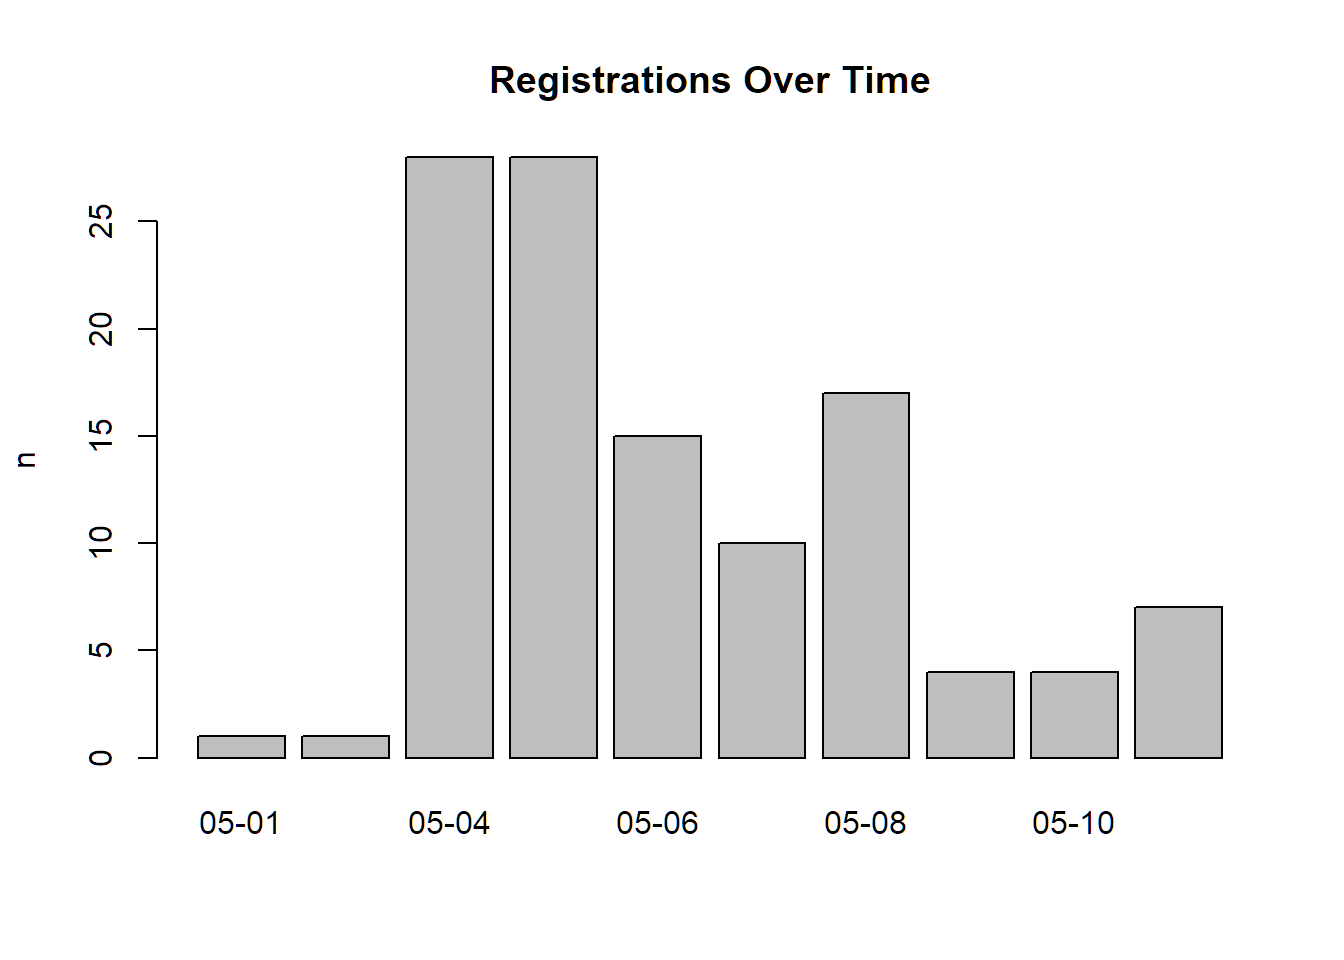
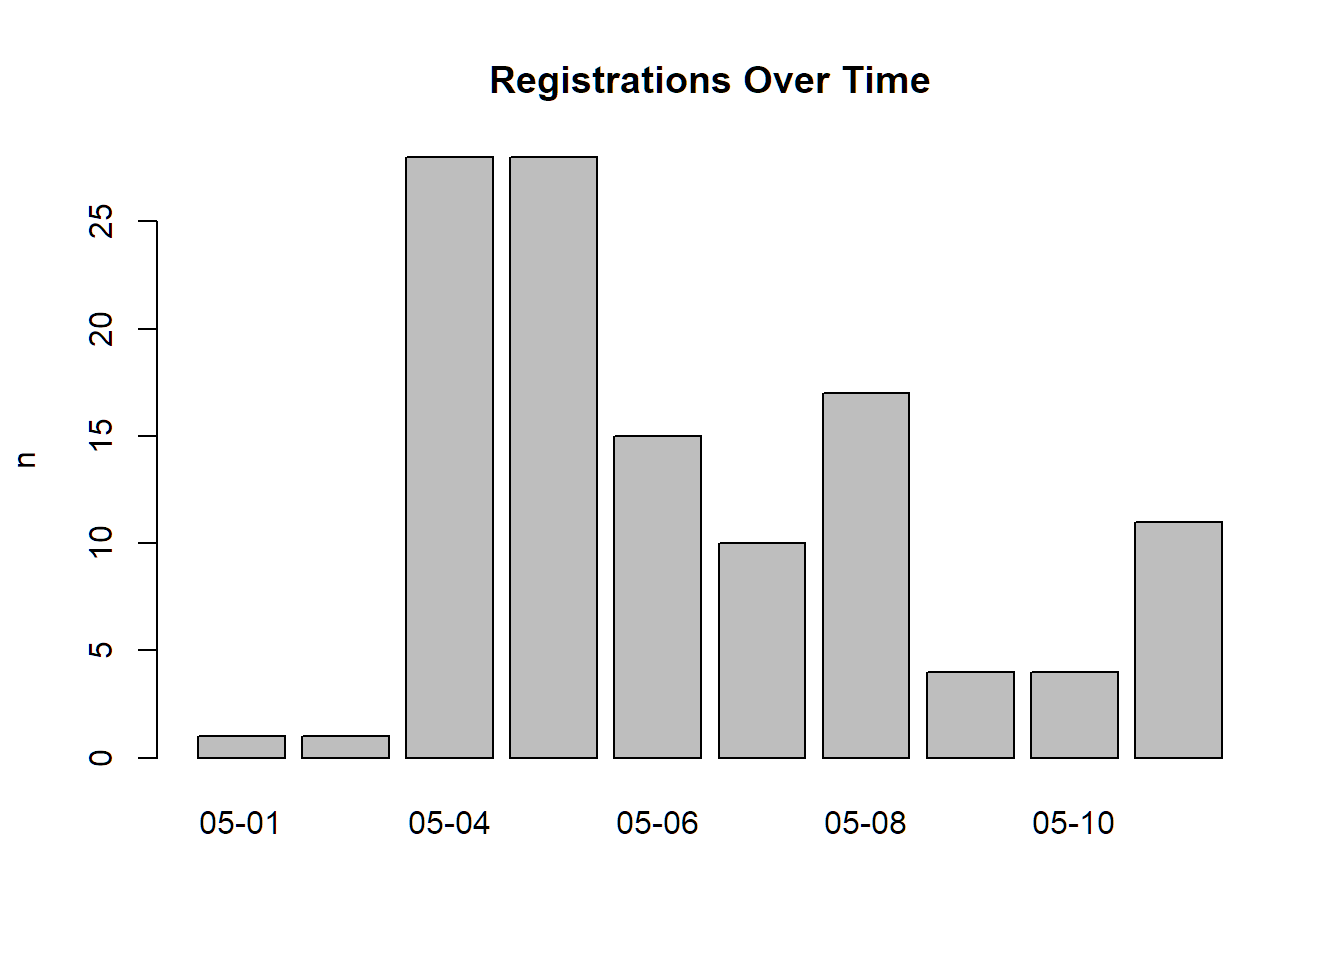
Updated Summary

Changed region(s): [[0.8438, 0.5312, 0.9375, 0.6562]]

diff --git a/docs/reg_summary.html b/docs/reg_summary.html
@@ -267,7 +267,7 @@ div.tocify {
 
 
 <h1 class="title toc-ignore">DroneCamp 2020 Registrations</h1>
-<h4 class="date">as of Monday May 11, 10:39</h4>
+<h4 class="date">as of Monday May 11, 14:26</h4>
 
 </div>
 
@@ -294,14 +294,14 @@ h4 {
 <div id="summary" class="section level1">
 <h1>Summary</h1>
 <p class="total">
-Total : 
-115
+Total: 
+119
 </p>
 </div>
 <div id="map" class="section level1">
 <h1>Map</h1>
-<div id="htmlwidget-acd761f4e8138eceaa18" style="width:672px;height:480px;" class="leaflet html-widget"></div>
-<script type="application/json" data-for="htmlwidget-acd761f4e8138eceaa18">{"x":{"options":{"crs":{"crsClass":"L.CRS.EPSG3857","code":null,"proj4def":null,"projectedBounds":null,"options":{}}},"calls":[{"method":"addTiles","args":["//{s}.tile.openstreetmap.org/{z}/{x}/{y}.png",null,null,{"minZoom":0,"maxZoom":18,"tileSize":256,"subdomains":"abc","errorTileUrl":"","tms":false,"noWrap":false,"zoomOffset":0,"zoomReverse":false,"opacity":1,"zIndex":1,"detectRetina":false,"attribution":"&copy; <a href=\"http://openstreetmap.org\">OpenStreetMap<\/a> contributors, <a href=\"http://creativecommons.org/licenses/by-sa/2.0/\">CC-BY-SA<\/a>"}]},{"method":"addCircleMarkers","args":[[37.4635519,44.60509,44.6111643,40.039784,38.5449065,32.7764749,40.160138,39.072831,38.5449065,36.9741171,32.704499,40.8020712,35.5005139,32.700018,38.5449065,37.7749295,37.3021632,34.048411,34.063209,34.117047,36.825582,36.6002378,34.4208305,36.681161,37.9829496,36.447533,36.678155,36.678155,36.678155,36.9707,37.523901,38.440111,38.457611,40.867469,37.5629917,40.659753,39.5807452,52.9817372,49.2488091,43.6150186,47.6248791,51.0447331,41.081726,38.549256,38.556576,39.720955,39.720955,40.5852602,39.720955,39.720955,39.720955,35.5496939,40.5852602,34.0966764,33.794028,49.2827291,43.828266,36.9741171,47.899217,41.971044,40.4233142,40.5852602,36.148444,36.6844029,43.0085587,32.557684,37.8715226,39.830936,34.110009,33.571185,49.2488091,33.640302,32.715738,39.7392358,38.3293416,38.3293416,38.3293416,40.0149856,40.4233142,34.268736,34.432896,34.0522342,32.715738,36.358928,38.939926,38.939926,36.722616,36.678155,36.812905,38.480494,36.3302284,40.867469,38.672127,39.9242266,38.7296252,39.720955,32.6926512,32.8328112,49.2710518,39.202725,45.497856,34.1175895,37.4529598,45.5051064,39.767536,49.1344187,39.049377,34.1175895,39.049377,47.899217,40.399281,32.800259,32.853471,39.114138,32.8111612],[-122.4285862,-69.33022,-69.3345032,-105.27938,-121.7405167,-79.9310512,-105.01772,-108.55,-121.7405167,-122.0307963,-114.64644,-124.1636729,-119.2717761,-114.52671,-121.7405167,-122.4194155,-120.4829677,-118.34015,-118.43643,-117.77097,-119.76358,-121.8946761,-119.6981901,-121.61538,-120.3821724,-121.68611,-121.79724,-121.79724,-121.79724,-121.99086,-120.8516,-122.74563,-122.69317,-124.07519,-122.3255254,-124.22153,-104.8771726,-122.4949058,-122.9805104,-116.2023137,-122.5210007,-114.0718831,-124.13112,-121.73655,-121.49285,-121.81888,-121.81888,-105.084423,-121.81888,-121.81888,-121.81888,-120.7060049,-105.084423,-117.7197785,-118.07218,-123.1207375,-84.74219,-122.0307963,-97.05896,-87.75869,-104.7091322,-105.084423,-95.90841,-121.802173,-81.2634983,-94.74353,-122.273042,-105.03736,-117.71973,-117.15362,-122.9805104,-117.769442,-117.1610838,-104.990251,-122.7096666,-122.7096666,-122.7096666,-105.2705456,-104.7091322,-119.2249,-119.837072,-118.2436849,-117.1610838,-119.24027,-119.9771868,-119.9771868,-120.10081,-121.79724,-121.78299,-122.74976,-119.2920585,-124.07519,-121.15783,-83.8088171,-120.798546,-121.81888,-114.6276916,-117.2712717,-123.1588119,-121.02076,-122.76988,-118.188329,-122.1817252,-122.6750261,-105.01973,-123.1163498,-76.49892,-118.188329,-76.49892,-97.05896,-104.70172,-115.35369,-115.58942,-121.6196,-115.3802643],10,null,null,{"interactive":true,"className":"","stroke":true,"color":"#03F","weight":5,"opacity":0.5,"fill":true,"fillColor":"#03F","fillOpacity":0.2},1,null,["CE Advisor (Urban Forestry)<br/>UCCE San Mateo/San Francisco","Human Resources<br/>MPC Student","Professor<br/>Unity College","Professor of Geoscience<br/>Unity College","Executive Director, Sustainable Wine & Food Processing Center<br/>University of California Davis","Graduate Student<br/>College of Charleston","Turfgrass and Environmental Horticulture Advisor<br/>University of California Cooperative Extension","Postdoctoral Scholar<br/>UCLA","Associate Director River Restoration<br/>American Rivers","Senior Restoration Ecologist<br/>River Partners","Graduate Student<br/>UC Davis","Associate Environmental Planner<br/>Caltrans","Consultant/Remote Sensing Engineer<br/>Wonderful","Masters Candidate<br/>University of California Santa Cruz","Postdoc<br/>UC Davis","GIS Manager/Drone Pilot<br/>SFEI","Student<br/>University of California, Merced","Assistant Professor<br/>College of the Redwoods","Sr. GIS Analyst / Drone Ops<br/>Jackson Family Wines","Assistant Professor of Geography<br/>CSU, Stanislaus","Media Specialist and Drone Operator<br/>University of Arizona Yuma Center of Excellence for Desert Agriculture","GIS Technician<br/>CSU Monterey Bay","Master Student<br/>UCSB","Statewide Survey and Trapping Coordinator<br/>UC IPM","Professor<br/>Columbia College","Adjunct Lecturer<br/>Humboldt State University","Student Researcher<br/>California State University Monterey Bay","Graduate PhD student<br/>University of California Davis","Student<br/>College of the redwoods","Department Chair<br/>Santa Rosa Junior College","Professor of Geosciences/UAS<br/>Arizona Western College","Environmental Scientist<br/>California Department of Fish and Wildlife, Office of Spill Prevention and Response","GIS Ana.yst<br/>AGS Inc.","GIS Technician<br/>City of Grand Junction","Student<br/>College of San Mateo","Unemployed<br/>Unemployed","GIS Specialist<br/>ICON Engineering","Student / BC Ministry of Forests Auxiliary<br/>British Columbia Institute of Technology","Student<br/>British Columbia Institute of Technology","Assistant Professor, Human Environment Systems<br/>Boise State University","Sr Wildlife Biologist/Project Manager<br/>ManTech International","Geographer<br/>none","Water Conservation Technician<br/>Chico State University","Professor<br/>Chico State University","Student Assistant<br/>Chico State University","Student Assistant<br/>Chico State University","Student Assistant<br/>Chico State University","Owner<br/>Private Business","Undergraduate<br/>University of California, Berkeley","Graduate student<br/>UC Santa Cruz","Director, Hastings Reserve<br/>UC Berkeley","Program Manager<br/>Upper Salinas Las Tablas Resource Conservation District","Environmental Scientist<br/>Twin Fish Enterprises LLC","Student<br/>Claremont Graduate University","Graduate Student<br/>California State University Monterey Bay","Student<br/>BCIT","Lab/Field Assistant<br/>UCCE Ventura County","Master Student<br/>University of California Santa Cruz","Sr Geographic Analyst<br/>HERE Technologies","Field Agronomist<br/>Bayer","Professor & Chair<br/>University of Northern Colorado","Student Researcher<br/>Colorado State University","Instructor<br/>Butte College","IST II<br/>CSU. Monterey Bay","Teaching assistant<br/>Western University","It<br/>Humboldt State U","Field Research Safety CoE/Health & Safety Advisor<br/>UC Berkeley","Dairy Advisor<br/>University of California Cooperative Extension","Principal IT Auditor<br/>UC Irvine","Graduate student<br/>University of Tulsa","GIS Student<br/>BCIT","Postdoc<br/>UCDavis","Videographer<br/>SDSC","Student<br/>University of Denver","Scientific Programs Manager<br/>Marin/Sonoma Mosquito and Vector Control District","Environmental Biologist<br/>Marin/Sonoma Mosquito and Vector Control District","Assistant Manager<br/>Marin/Sonoma Mosquito and Vector Control District","Field Engineer<br/>UNAVCO","Emeritus Professor<br/>University of Northern Colorado","Digital Media Assistant<br/>Elkhorn Slough Foundation","Community Edication Specialist<br/>UCCE","Graduate Student<br/>California State University, Los Angeles","Teaching Assistant<br/>UCSD","Student<br/>Letourneau University","Adjunct Instructor<br/>LTCC","Citizen Science Program Coordinator<br/>League to Save Lake Tahoe","Owner<br/>UAS for Good LLC","Instructor<br/>Portland Community College","Instructor<br/>Harper College","R & D Engineer<br/>University of California Santa Barbara","Environmental Scientist<br/>CAL FIRE","Forerstry Assistant II<br/>CAL FIRE","Student<br/>CSU Monterey Bay","Associate Professor/Geospatial Technology Coordinator<br/>Clark State Community College","GIS Manager<br/>County of El Dorado","Instructor<br/>Mid Michigan College","Postdoc<br/>University of Arizona","R&D Engineer<br/>UC San Diego/Scripps Oceanography","Biologist<br/>Hemmera","Middle School Science Teacher<br/>Nevada City School of the Arts","Digital Scholarship Librarian<br/>Claremont Colleges","GIS Analyst and Geophysicist<br/>Rio Hondo College","Postdoctoral scholar<br/>UC Berkeley","student<br/>PSU","Retired<br/>None","Student in GIS<br/>BCIT (British Columbia Student of Technology)","Advisor<br/>UCCE Sutter-Yuba","GIS Analyst / Geophysicist / Geologist<br/>Rio Hondo","Instructional Specialist<br/>Anne Arundel Community College","Professor<br/>Anne Arundel Community College","Assistant Professor of Aviation<br/>University of North Dakota","CENTER SUPERINTENDENT<br/>University of California  DREC","SRA<br/>University of California  DREC","Assistant Professor<br/>University of Northern Colorado","lab assistant<br/>UC Cooperative Extension  in Imperial"],null,null,{"interactive":false,"permanent":false,"direction":"auto","opacity":1,"offset":[0,0],"textsize":"10px","textOnly":false,"className":"","sticky":true},null]}],"limits":{"lat":[32.557684,52.9817372],"lng":[-124.22153,-69.33022]}},"evals":[],"jsHooks":[]}</script>
+<div id="htmlwidget-14b3feb9fe1aa7a37132" style="width:672px;height:480px;" class="leaflet html-widget"></div>
+<script type="application/json" data-for="htmlwidget-14b3feb9fe1aa7a37132">{"x":{"options":{"crs":{"crsClass":"L.CRS.EPSG3857","code":null,"proj4def":null,"projectedBounds":null,"options":{}}},"calls":[{"method":"addTiles","args":["//{s}.tile.openstreetmap.org/{z}/{x}/{y}.png",null,null,{"minZoom":0,"maxZoom":18,"tileSize":256,"subdomains":"abc","errorTileUrl":"","tms":false,"noWrap":false,"zoomOffset":0,"zoomReverse":false,"opacity":1,"zIndex":1,"detectRetina":false,"attribution":"&copy; <a href=\"http://openstreetmap.org\">OpenStreetMap<\/a> contributors, <a href=\"http://creativecommons.org/licenses/by-sa/2.0/\">CC-BY-SA<\/a>"}]},{"method":"addCircleMarkers","args":[[37.4635519,44.60509,44.6111643,40.039784,38.5449065,32.7764749,40.160138,39.072831,38.5449065,36.9741171,32.704499,40.8020712,35.5005139,32.700018,38.5449065,37.7749295,37.3021632,34.048411,34.063209,34.117047,36.825582,36.6002378,34.4208305,36.681161,37.9829496,36.447533,36.678155,36.678155,36.678155,36.9707,37.523901,38.440111,38.457611,40.867469,37.5629917,40.659753,39.5807452,52.9817372,49.2488091,43.6150186,47.6248791,51.0447331,41.081726,38.549256,38.556576,39.720955,39.720955,40.5852602,39.720955,39.720955,39.720955,35.5496939,40.5852602,34.0966764,33.794028,49.2827291,43.828266,36.9741171,47.899217,41.971044,40.4233142,40.5852602,36.148444,36.6844029,43.0085587,32.557684,37.8715226,39.830936,34.110009,33.571185,49.2488091,33.640302,32.715738,39.7392358,38.3293416,38.3293416,38.3293416,40.0149856,40.4233142,34.268736,34.432896,34.0522342,32.715738,36.358928,38.939926,38.939926,36.722616,36.678155,36.812905,38.480494,36.3302284,40.867469,38.672127,39.9242266,38.7296252,39.720955,32.6926512,32.8328112,49.2710518,39.202725,45.497856,34.1175895,37.4529598,45.5051064,39.767536,49.1344187,39.049377,34.1175895,39.049377,47.899217,40.399281,32.800259,32.853471,39.114138,32.8111612,37.342056,50.9341773,39.15973],[-122.4285862,-69.33022,-69.3345032,-105.27938,-121.7405167,-79.9310512,-105.01772,-108.55,-121.7405167,-122.0307963,-114.64644,-124.1636729,-119.2717761,-114.52671,-121.7405167,-122.4194155,-120.4829677,-118.34015,-118.43643,-117.77097,-119.76358,-121.8946761,-119.6981901,-121.61538,-120.3821724,-121.68611,-121.79724,-121.79724,-121.79724,-121.99086,-120.8516,-122.74563,-122.69317,-124.07519,-122.3255254,-124.22153,-104.8771726,-122.4949058,-122.9805104,-116.2023137,-122.5210007,-114.0718831,-124.13112,-121.73655,-121.49285,-121.81888,-121.81888,-105.084423,-121.81888,-121.81888,-121.81888,-120.7060049,-105.084423,-117.7197785,-118.07218,-123.1207375,-84.74219,-122.0307963,-97.05896,-87.75869,-104.7091322,-105.084423,-95.90841,-121.802173,-81.2634983,-94.74353,-122.273042,-105.03736,-117.71973,-117.15362,-122.9805104,-117.769442,-117.1610838,-104.990251,-122.7096666,-122.7096666,-122.7096666,-105.2705456,-104.7091322,-119.2249,-119.837072,-118.2436849,-117.1610838,-119.24027,-119.9771868,-119.9771868,-120.10081,-121.79724,-121.78299,-122.74976,-119.2920585,-124.07519,-121.15783,-83.8088171,-120.798546,-121.81888,-114.6276916,-117.2712717,-123.1588119,-121.02076,-122.76988,-118.188329,-122.1817252,-122.6750261,-105.01973,-123.1163498,-76.49892,-118.188329,-76.49892,-97.05896,-104.70172,-115.35369,-115.58942,-121.6196,-115.3802643,-120.50154,-114.106128,-121.53735],10,null,null,{"interactive":true,"className":"","stroke":true,"color":"#03F","weight":5,"opacity":0.5,"fill":true,"fillColor":"#03F","fillOpacity":0.2},1,null,["CE Advisor (Urban Forestry)<br/>UCCE San Mateo/San Francisco","Human Resources<br/>MPC Student","Professor<br/>Unity College","Professor of Geoscience<br/>Unity College","Executive Director, Sustainable Wine & Food Processing Center<br/>University of California Davis","Graduate Student<br/>College of Charleston","Turfgrass and Environmental Horticulture Advisor<br/>University of California Cooperative Extension","Postdoctoral Scholar<br/>UCLA","Associate Director River Restoration<br/>American Rivers","Senior Restoration Ecologist<br/>River Partners","Graduate Student<br/>UC Davis","Associate Environmental Planner<br/>Caltrans","Consultant/Remote Sensing Engineer<br/>Wonderful","Masters Candidate<br/>University of California Santa Cruz","Postdoc<br/>UC Davis","GIS Manager/Drone Pilot<br/>SFEI","Student<br/>University of California, Merced","Assistant Professor<br/>College of the Redwoods","Sr. GIS Analyst / Drone Ops<br/>Jackson Family Wines","Assistant Professor of Geography<br/>CSU, Stanislaus","Media Specialist and Drone Operator<br/>University of Arizona Yuma Center of Excellence for Desert Agriculture","GIS Technician<br/>CSU Monterey Bay","Master Student<br/>UCSB","Statewide Survey and Trapping Coordinator<br/>UC IPM","Professor<br/>Columbia College","Adjunct Lecturer<br/>Humboldt State University","Student Researcher<br/>California State University Monterey Bay","Graduate PhD student<br/>University of California Davis","Student<br/>College of the redwoods","Department Chair<br/>Santa Rosa Junior College","Professor of Geosciences/UAS<br/>Arizona Western College","Environmental Scientist<br/>California Department of Fish and Wildlife, Office of Spill Prevention and Response","GIS Ana.yst<br/>AGS Inc.","GIS Technician<br/>City of Grand Junction","Student<br/>College of San Mateo","Unemployed<br/>Unemployed","GIS Specialist<br/>ICON Engineering","Student / BC Ministry of Forests Auxiliary<br/>British Columbia Institute of Technology","Student<br/>British Columbia Institute of Technology","Assistant Professor, Human Environment Systems<br/>Boise State University","Sr Wildlife Biologist/Project Manager<br/>ManTech International","Geographer<br/>none","Water Conservation Technician<br/>Chico State University","Professor<br/>Chico State University","Student Assistant<br/>Chico State University","Student Assistant<br/>Chico State University","Student Assistant<br/>Chico State University","Owner<br/>Private Business","Undergraduate<br/>University of California, Berkeley","Graduate student<br/>UC Santa Cruz","Director, Hastings Reserve<br/>UC Berkeley","Program Manager<br/>Upper Salinas Las Tablas Resource Conservation District","Environmental Scientist<br/>Twin Fish Enterprises LLC","Student<br/>Claremont Graduate University","Graduate Student<br/>California State University Monterey Bay","Student<br/>BCIT","Lab/Field Assistant<br/>UCCE Ventura County","Master Student<br/>University of California Santa Cruz","Sr Geographic Analyst<br/>HERE Technologies","Field Agronomist<br/>Bayer","Professor & Chair<br/>University of Northern Colorado","Student Researcher<br/>Colorado State University","Instructor<br/>Butte College","IST II<br/>CSU. Monterey Bay","Teaching assistant<br/>Western University","It<br/>Humboldt State U","Field Research Safety CoE/Health & Safety Advisor<br/>UC Berkeley","Dairy Advisor<br/>University of California Cooperative Extension","Principal IT Auditor<br/>UC Irvine","Graduate student<br/>University of Tulsa","GIS Student<br/>BCIT","Postdoc<br/>UCDavis","Videographer<br/>SDSC","Student<br/>University of Denver","Scientific Programs Manager<br/>Marin/Sonoma Mosquito and Vector Control District","Environmental Biologist<br/>Marin/Sonoma Mosquito and Vector Control District","Assistant Manager<br/>Marin/Sonoma Mosquito and Vector Control District","Field Engineer<br/>UNAVCO","Emeritus Professor<br/>University of Northern Colorado","Digital Media Assistant<br/>Elkhorn Slough Foundation","Community Edication Specialist<br/>UCCE","Graduate Student<br/>California State University, Los Angeles","Teaching Assistant<br/>UCSD","Student<br/>Letourneau University","Adjunct Instructor<br/>LTCC","Citizen Science Program Coordinator<br/>League to Save Lake Tahoe","Owner<br/>UAS for Good LLC","Instructor<br/>Portland Community College","Instructor<br/>Harper College","R & D Engineer<br/>University of California Santa Barbara","Environmental Scientist<br/>CAL FIRE","Forerstry Assistant II<br/>CAL FIRE","Student<br/>CSU Monterey Bay","Associate Professor/Geospatial Technology Coordinator<br/>Clark State Community College","GIS Manager<br/>County of El Dorado","Instructor<br/>Mid Michigan College","Postdoc<br/>University of Arizona","R&D Engineer<br/>UC San Diego/Scripps Oceanography","Biologist<br/>Hemmera","Middle School Science Teacher<br/>Nevada City School of the Arts","Digital Scholarship Librarian<br/>Claremont Colleges","GIS Analyst and Geophysicist<br/>Rio Hondo College","Postdoctoral scholar<br/>UC Berkeley","student<br/>PSU","Retired<br/>None","Student in GIS<br/>BCIT (British Columbia Student of Technology)","Advisor<br/>UCCE Sutter-Yuba","GIS Analyst / Geophysicist / Geologist<br/>Rio Hondo","Instructional Specialist<br/>Anne Arundel Community College","Professor<br/>Anne Arundel Community College","Assistant Professor of Aviation<br/>University of North Dakota","CENTER SUPERINTENDENT<br/>University of California  DREC","SRA<br/>University of California  DREC","Assistant Professor<br/>University of Northern Colorado","lab assistant<br/>UC Cooperative Extension  in Imperial","Farm hand<br/>CSU Chico, student","Student<br/>University of Calgary","Coordinator and Professor of Computer Science<br/>Merced College"],null,null,{"interactive":false,"permanent":false,"direction":"auto","opacity":1,"offset":[0,0],"textsize":"10px","textOnly":false,"className":"","sticky":true},null]}],"limits":{"lat":[32.557684,52.9817372],"lng":[-124.22153,-69.33022]}},"evals":[],"jsHooks":[]}</script>
 </div>
 <div id="by-email-domain" class="section level1">
 <h1>By Email Domain</h1>
@@ -322,7 +322,7 @@ n
 edu
 </td>
 <td style="text-align:right;">
-76
+78
 </td>
 </tr>
 <tr>
@@ -330,7 +330,7 @@ edu
 com
 </td>
 <td style="text-align:right;">
-22
+23
 </td>
 </tr>
 <tr>
@@ -343,7 +343,7 @@ org
 </tr>
 <tr>
 <td style="text-align:left;">
-gov
+ca
 </td>
 <td style="text-align:right;">
 4
@@ -351,10 +351,10 @@ gov
 </tr>
 <tr>
 <td style="text-align:left;">
-ca
+gov
 </td>
 <td style="text-align:right;">
-3
+4
 </td>
 </tr>
 <tr>
@@ -688,6 +688,14 @@ County of El Dorado
 </tr>
 <tr>
 <td style="text-align:left;">
+CSU Chico, student
+</td>
+<td style="text-align:right;">
+1
+</td>
+</tr>
+<tr>
+<td style="text-align:left;">
 CSU, Stanislaus
 </td>
 <td style="text-align:right;">
@@ -697,6 +705,14 @@ CSU, Stanislaus
 <tr>
 <td style="text-align:left;">
 CSU. Monterey Bay
+</td>
+<td style="text-align:right;">
+1
+</td>
+</tr>
+<tr>
+<td style="text-align:left;">
+CSUMB
 </td>
 <td style="text-align:right;">
 1
@@ -793,6 +809,14 @@ LTCC
 <tr>
 <td style="text-align:left;">
 ManTech International
+</td>
+<td style="text-align:right;">
+1
+</td>
+</tr>
+<tr>
+<td style="text-align:left;">
+Merced College
 </td>
 <td style="text-align:right;">
 1
@@ -1064,6 +1088,14 @@ University of Arizona Yuma Center of Excellence for Desert Agriculture
 </tr>
 <tr>
 <td style="text-align:left;">
+University of Calgary
+</td>
+<td style="text-align:right;">
+1
+</td>
+</tr>
+<tr>
+<td style="text-align:left;">
 University of California Santa Barbara
 </td>
 <td style="text-align:right;">
@@ -1140,6 +1172,10 @@ Wonderful
 <div id="registrations-per-day" class="section level1">
 <h1>Registrations Per Day</h1>
 <p><img src="reg_summary_files/figure-html/reg_per_day-1.png" width="672" /></p>
+</div>
+<div id="anr-scholarships" class="section level1">
+<h1>ANR Scholarships</h1>
+<p><em>coming soon</em></p>
 </div>
 
 
